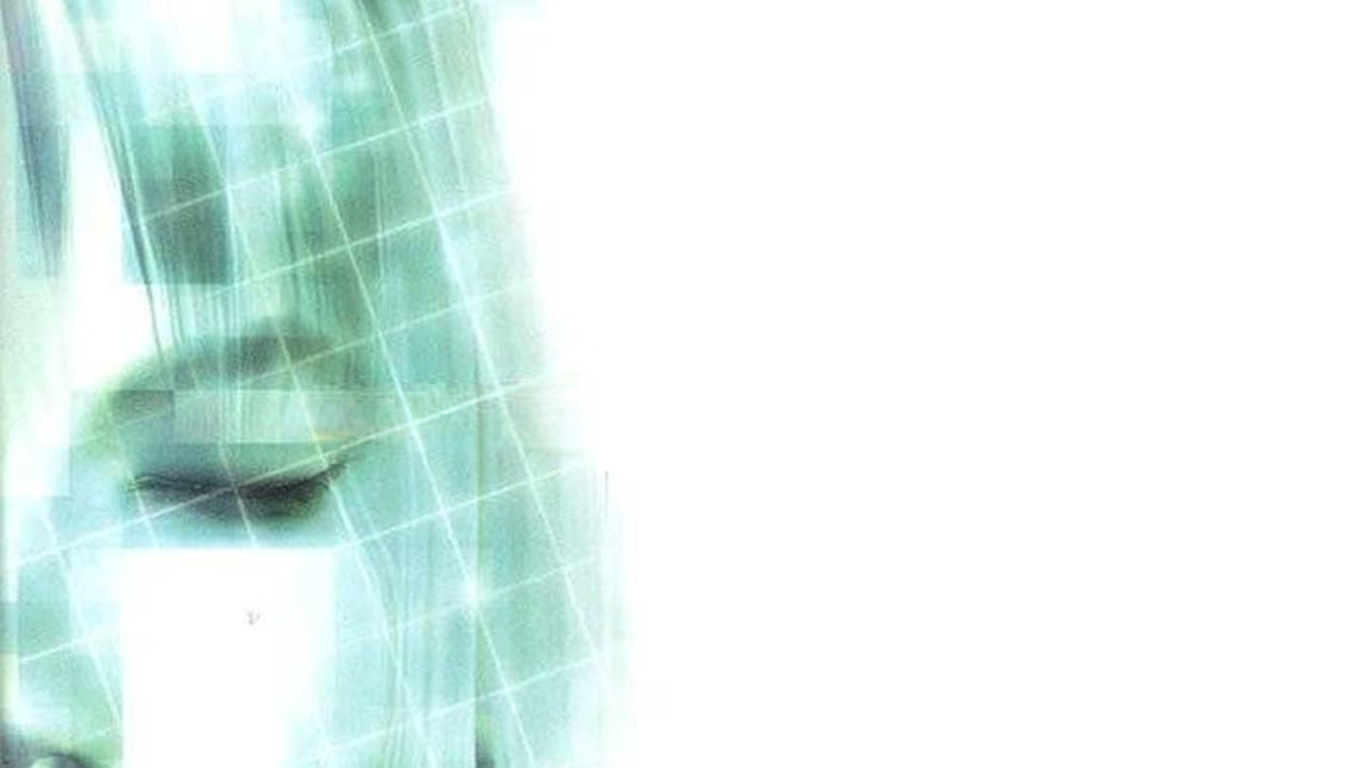
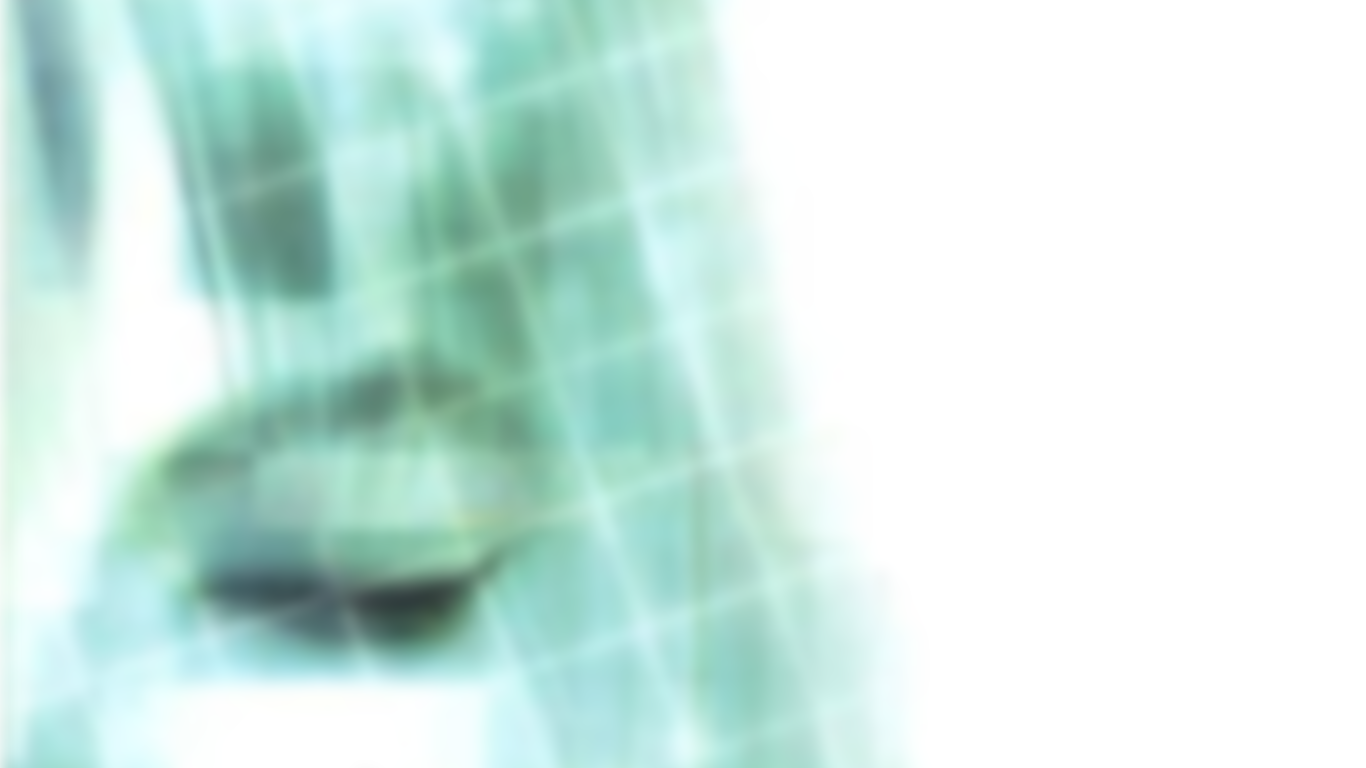
Update artworks bg image and remove CSS blur (blur baked into image)

diff --git a/css/art.css b/css/art.css
@@ -13,9 +13,8 @@
 .art-page::before {
   content: '';
   position: absolute;
-  inset: -20px;
+  inset: 0;
   background: url('../images/artworks/actual bg for page.png') center center / cover no-repeat;
-  filter: blur(12px);
   z-index: 0;
 }
 
